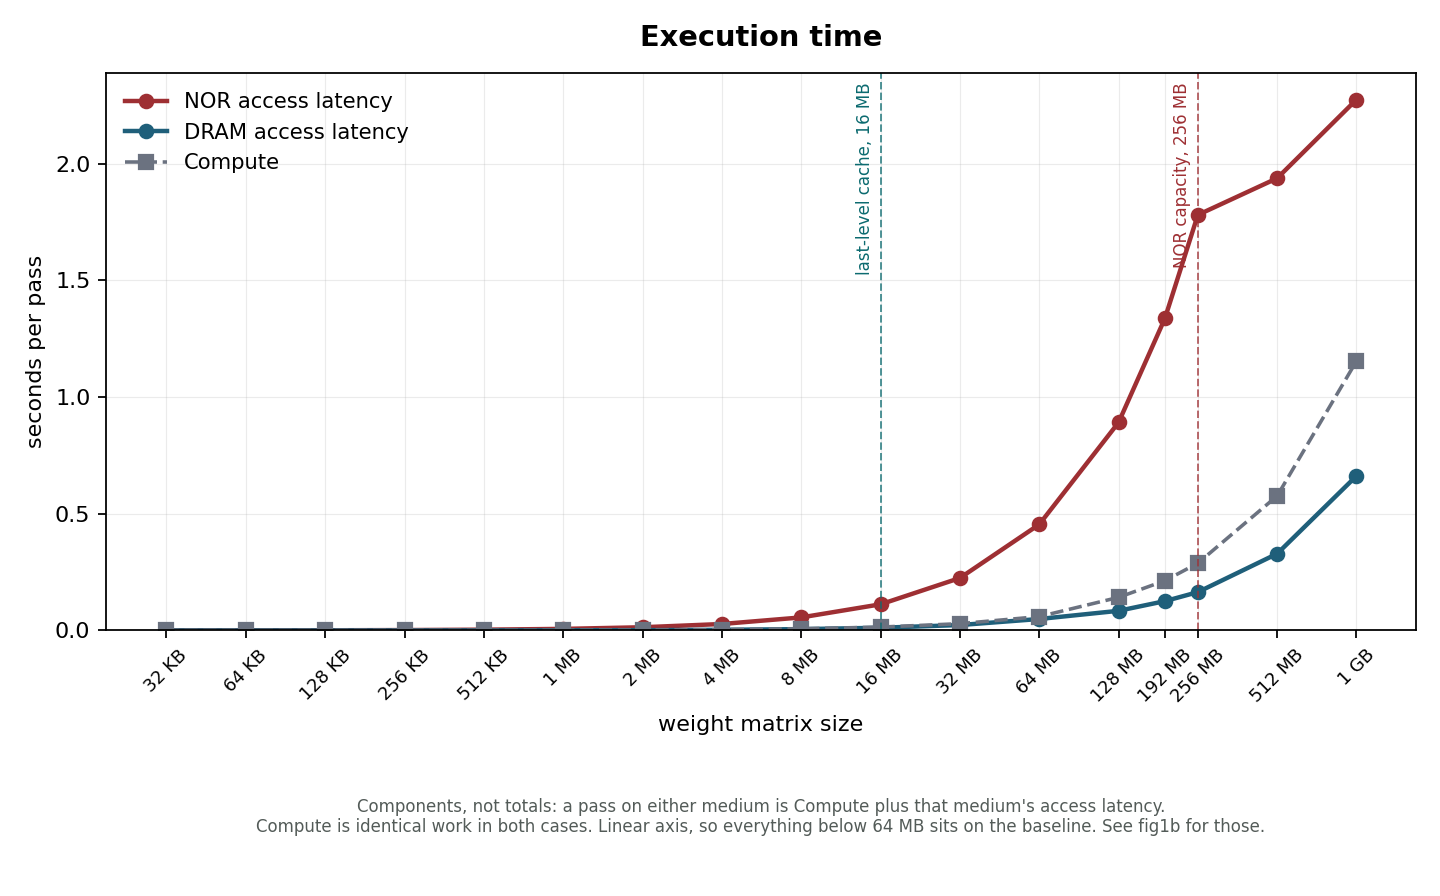
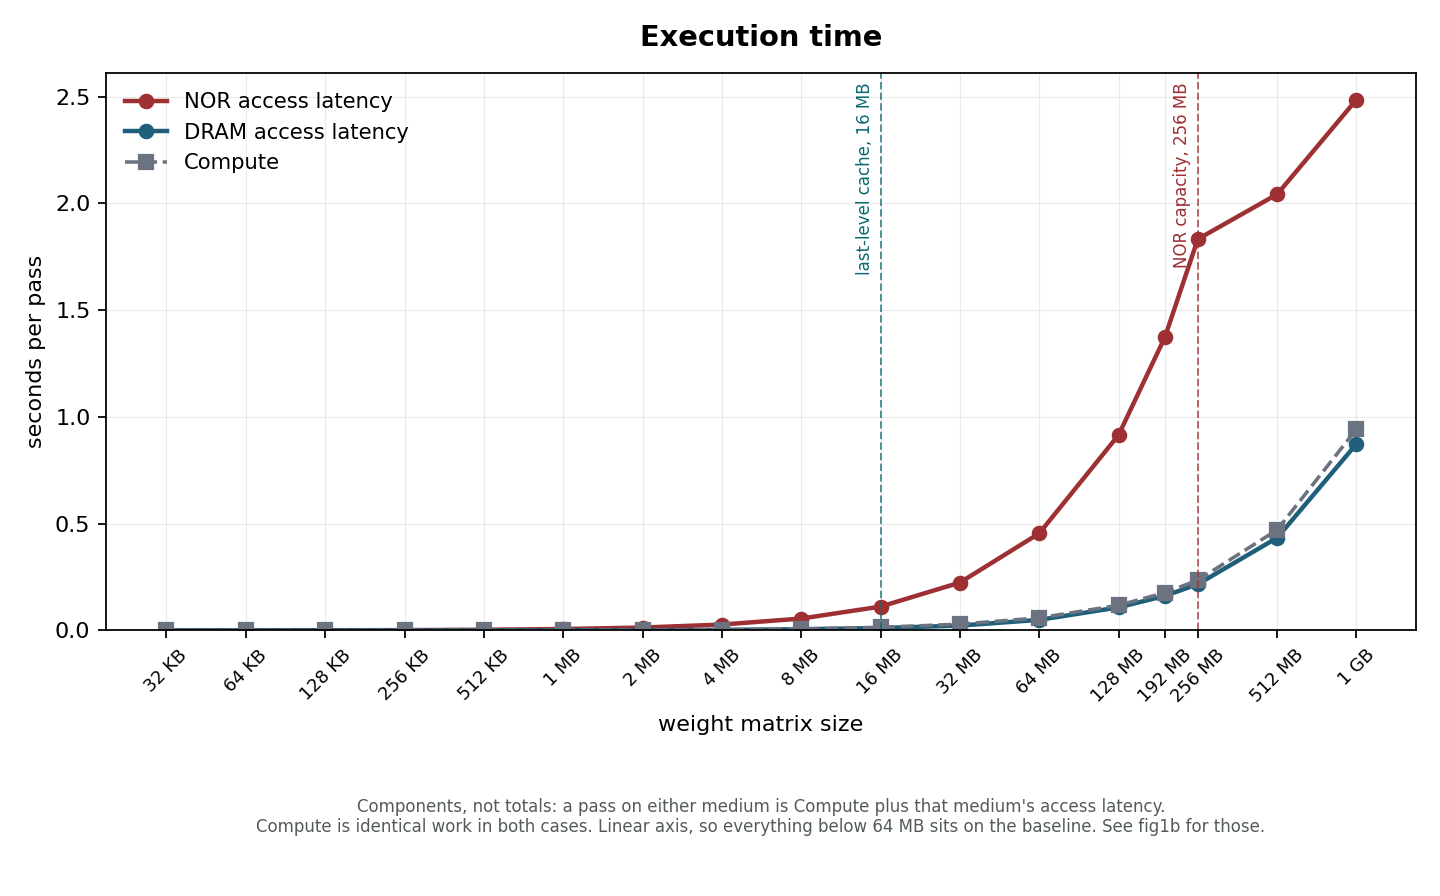
figures: the compute floor is valid at every size now, shading removed
matmul --compute-only wraps both operands into a fixed 2048-float prefix, so
the floor is L1D-resident at any N. It measures 112.4 ns/line FLAT from 32 MB
to 1 GB at sd <= 0.1% -- a constant cost per line, which is what a compute
floor should be.

Against the old pinned-row version:

    below 64 MB   new is ~1.5% HIGHER   the added AND, constant in N
    above 64 MB   new is 20-22% LOWER   memory traffic that was contaminating it

So fig1's components and fig3's shares are values at every size now, not
bounds above 64 MB, and the shaded region and its caption are gone.

One residual, in the harmless direction: the AND adds ~1.5% to the floor
uniformly, which slightly UNDERSTATES every memory term. At sizes where the
warm run is entirely cache-resident the memory term is ~0 and this pushes it
marginally negative, which is the floor being honest rather than an error.

diff --git a/scripts/plot_sweep.py b/scripts/plot_sweep.py
@@ -16,10 +16,16 @@ from matplotlib.ticker import FuncFormatter
 
 LLC = 16 * 1024**2
 NOR = 256 * 1024**2
-# Above N=4096 the compute-only row plus x exceeds the 32 KiB L1D, so the
-# "compute floor" starts carrying real memory traffic. Everything derived from
-# it beyond here is a bound, not a value, and the figures say so.
-COMP_VALID_TO = 64 * 1024**2
+# The compute floor is now valid at EVERY size: matmul --compute-only wraps
+# both operands into a fixed 2048-float prefix (16 KiB), L1D-resident at any N.
+# It measures 112.4 ns/line flat from 32 MB to 1 GB. Before that fix it pinned
+# a whole row, which exceeded L1D above N=4096 and inflated the floor by 22% at
+# the large sizes -- so fig1's components and fig3's shares were bounds there
+# rather than values, and both were shaded. No longer.
+#
+# The wrap costs one AND per iteration, which shows up as a constant ~1.5%
+# ADDED to the floor at every size. That direction understates the memory
+# terms slightly and uniformly, which is the harmless way round.
 
 C_COMP, C_DRAM, C_NOR = "#6B7280", "#1F5F7A", "#9E2F33"
 
@@ -131,16 +137,10 @@ for mode, lab, c, ls in [("nor_cold",  "NOR, cold cache",  C_NOR,  "o-"),
     ax.plot(sizes, [100 * (x - k) / x if x and x > k else float("nan")
                     for x, k in zip(t, comp)], ls, color=c, lw=1.8, label=lab, alpha=0.95)
 ax.set_ylim(0, 100)
-# Past 64 MB the compute baseline itself carries memory traffic, so every share
-# derived from it is understated. Shade it rather than letting it be read as data.
-ax.axvspan(COMP_VALID_TO, sizes[-1] * 1.4, color="#868E8A", alpha=0.13, lw=0)
-ax.text(COMP_VALID_TO * 1.15, 6,
-        "compute baseline unreliable beyond here:\nthe pinned row no longer fits L1,\n"
-        "so these shares are understated",
-        fontsize=7.5, color="#535B58", va="bottom")
 frame(ax, "Memory access latency as a share of total run time", "% of the pass spent reaching the weights",
-      "Measured as (total minus compute) over total. On DRAM it is ~44% of the pass, which is "
-      "why a medium\nroughly 10x slower per access yields only ~4.8x end to end.")
+      "Measured as (total minus compute) over total, with the compute floor held L1-resident "
+      "at every size.\nOn DRAM it is roughly half the pass, which is why a medium ~9x slower "
+      "per access costs only ~4.6x end to end.")
 ax.legend(fontsize=9.5, loc="center left", frameon=False)
 fig.tight_layout(); fig.savefig(f"{a.dir}/fig3-memory-share.png", dpi=160)
 
@@ -156,12 +156,10 @@ for s in sizes:
         dc, nc, cp = e[dm][0], e[nm][0], e["comp"][0]
         md, mn = dc - cp, nc - cp
         res = e[nm][2] / e[nm][1] * 100 if e[nm][1] else 0
-        flag = " *" if s > COMP_VALID_TO else ""
+        flag = ""
         print(f"{human(s):>8} {cp:9.5f} | {dc:9.5f} {md:9.5f} {100*md/dc:3.0f}% "
               f"| {nc:9.5f} {mn:9.5f} {100*mn/nc:3.0f}% "
               f"| {nc/dc:5.2f} {(mn/md if md > 0 else float('nan')):6.2f} {res:4.0f}% {tag}{flag}")
-print("\n* compute baseline inflated: the pinned row exceeds L1D above N=4096,")
-print("  so wDRAM and wNOR are understated and wRatio is overstated.")
 
 # Per cache line, cold. Nothing derived: both columns are a measured total
 # divided by the line count, so this is the honest answer to "why does the
